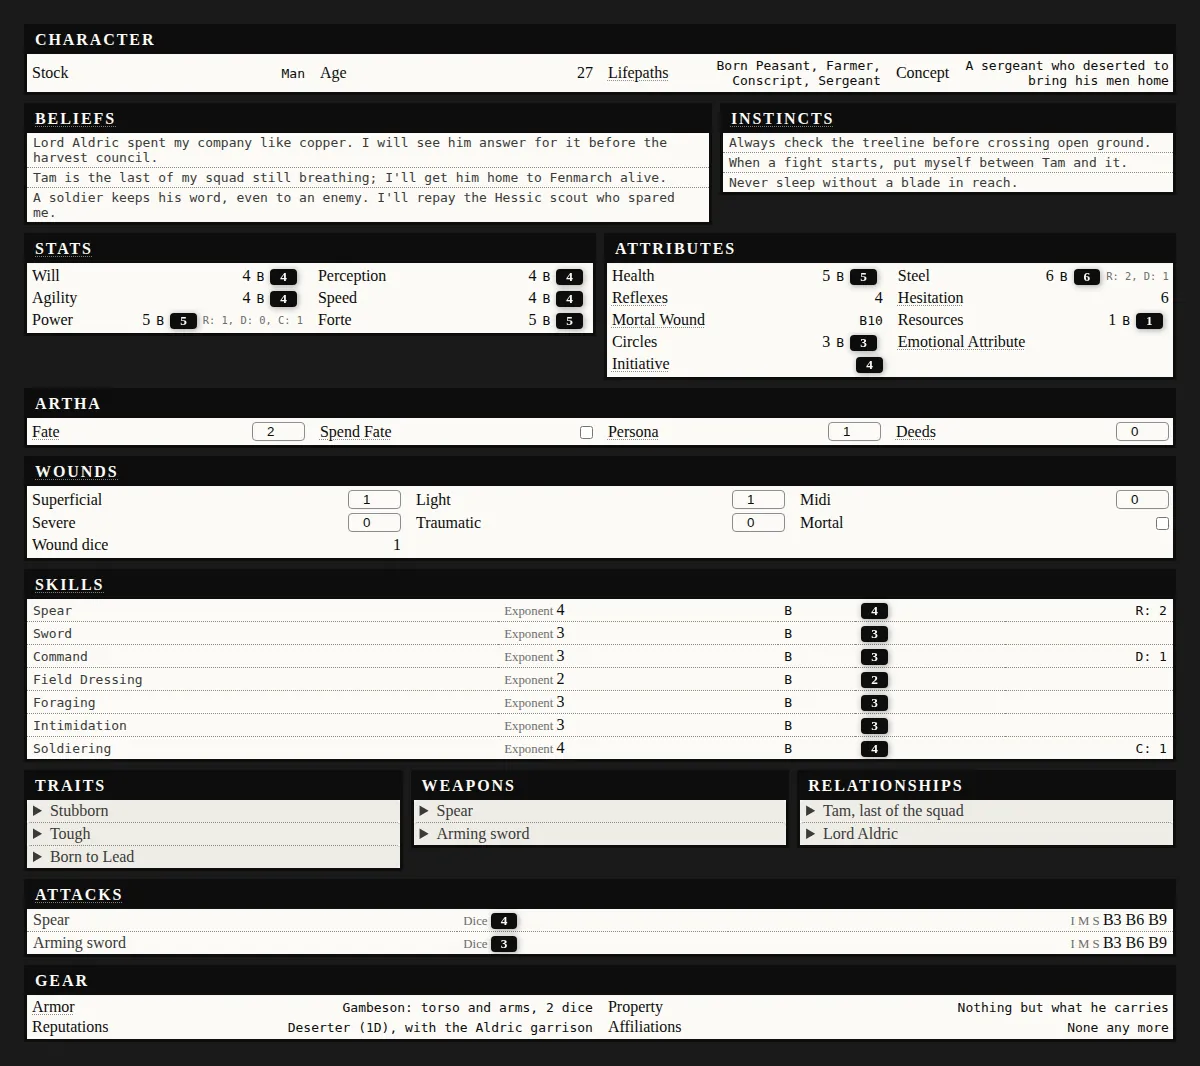
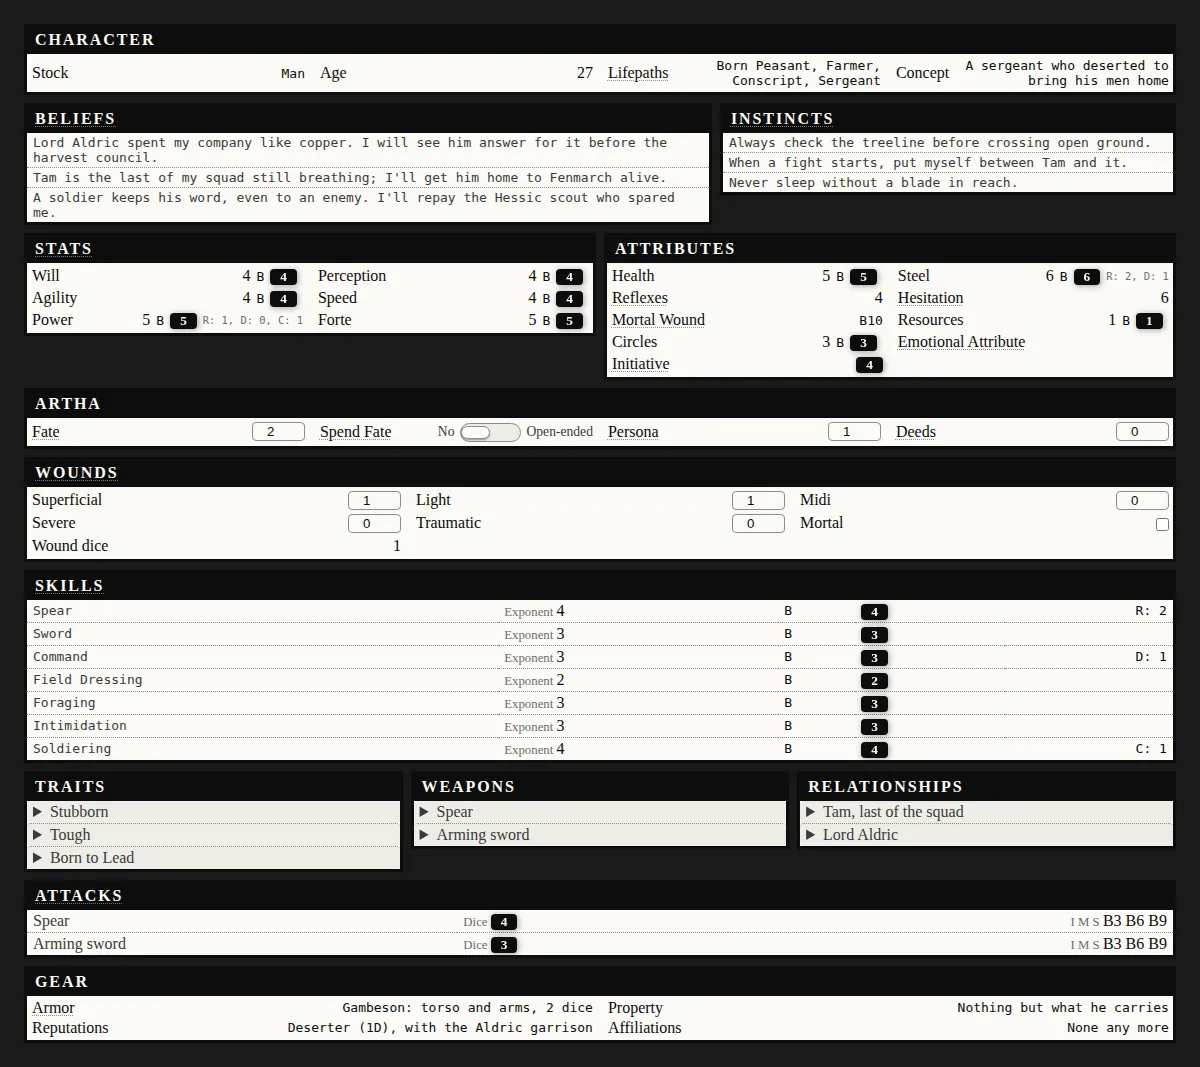
Fix the first review round's findings in the batch 3 systems
Per-roll toggles (Hunter Add Desperation, Mage Spend Willpower, Burning
Wheel Spend Fate) are unsaved selectors held with Shift, so they no
longer stick between rolls. Burning Wheel weapon attacks without the
skill use Beginner's Luck (full Agility, double Ob). Mage wound
penalties apply to Arete. Expanse Income can be rolled again. Mythras
thrown weapons keep the damage modifier. Cairn petty relics take no
slot. Paranoia's Next clone no longer revives the sixth clone. Simpler
BRP ranged check.

diff --git a/systems/hunter/hunter.css b/systems/hunter/hunter.css
@@ -48,8 +48,8 @@
 }
 .entityView .table-attributes > table > tbody > tr,
 .entityView .table-skills > table > tbody > tr { border-bottom: 1px dashed var(--border); }
-.entityView .table-hunt { --block: 40%; clear: left; }
-.entityView .table-trackers { --block: 60%; }
+.entityView .table-hunt { --block: 48%; clear: left; }
+.entityView .table-trackers { --block: 52%; }
 .entityView .table-edges,
 .entityView .table-weapons { --block: 50%; }
 .entityView .table-edges { clear: left; }

diff --git a/tools/cairn_import.py b/tools/cairn_import.py
@@ -127,9 +127,14 @@ def relics():
         bullets = [clean(re.sub(r"^\s*-\s*", "", l)) for l in lines if l.strip().startswith("-")]
         recharge = [b[len("Recharge:"):].strip() for b in bullets if b.startswith("Recharge:")]
         body = [b for b in bullets if not b.startswith("Recharge:")]
+        petty = "petty" in others
+        others = [o for o in others if o != "petty"]
         if others:
             body.insert(0, ", ".join(others) + ".")
-        found.append(entity("Relics", name, "\n\n".join(body), "cairnRelic", {"Stats": {"Charges": charges, "Recharge": " ".join(recharge)}}))
+        stats = {"Charges": charges, "Recharge": " ".join(recharge)}
+        if petty:
+            stats["Petty"] = True
+        found.append(entity("Relics", name, "\n\n".join(body), "cairnRelic", {"Stats": stats}))
     return found
 
 

diff --git a/systems/mage/guide.md b/systems/mage/guide.md
@@ -6,7 +6,7 @@ The Awakened know that reality is consensus: what people believe holds the world
 ## Rolls
 Roll **attribute + ability** d10s against a **difficulty** (usually 6, from 3 easy to 9 very hard). Each die at or above the difficulty is a success; each **1** cancels one success. With no successes and any 1s, the roll is a **botch**. The prompt asks for dice added or taken off and the difficulty.
 - One success is enough; more give better results.
-- **Willpower**: spend a point before the roll for one automatic success that 1s can't cancel (tick Spend Willpower, then lower Willpower).
+- **Willpower**: spend a point before the roll for one automatic success that 1s can't cancel (hold Shift while rolling, then lower Willpower).
 - Untrained: a Talent rolls the attribute alone, a Skill at +1 difficulty, a Knowledge not at all.
 - **Wound penalties** come off the pool: Hurt and Injured -1, Wounded and Mauled -2, Crippled -5.
 
@@ -14,6 +14,7 @@ Roll **attribute + ability** d10s against a **difficulty** (usually 6, from 3 ea
 Roll **Arete**. The effect needs dots in the right **Spheres** (Correspondence, Entropy, Forces, Life, Matter, Mind, Prime, Spirit, Time).
 - **Coincidental** magick (could pass as chance): difficulty = highest Sphere used + 3.
 - **Vulgar** magick (obviously impossible): highest Sphere + 4, and it gains **Paradox**; more with Sleepers watching.
+- **Wound penalties** apply to Arete too.
 - Spending **Quintessence** lowers the difficulty by 1 a point (up to 3). Instruments and time help too.
 - The successes decide how strong, how long and how far the effect goes. A botch on vulgar magick brings a Paradox backlash.
 

diff --git a/systems/hunter/guide.md b/systems/hunter/guide.md
@@ -10,7 +10,7 @@ Roll **attribute + skill** d10s. Each **6 or more** is a success; every **pair o
 
 ## Desperation and Danger
 The cell shares two numbers, kept on each sheet:
-- **Desperation** (1-5): when a roll serves the hunter's **Drive**, tick **Add Desperation** and that many orange dice are added to the pool. They count successes as usual, but if any shows a **1**, the hunter **overreaches**: either **Danger** goes up by 1, or the hunter falls into **Despair**.
+- **Desperation** (1-5): when a roll serves the hunter's **Drive**, hold **Shift** while rolling (or switch **Add Desperation** on) and that many orange dice are added to the pool. They count successes as usual, but if any shows a **1**, the hunter **overreaches**: either **Danger** goes up by 1, or the hunter falls into **Despair**.
 - **Danger** (0-5): how close the quarry is to hitting back. The GM spends it on complications.
 - **Despair**: no Desperation dice and no use of the Drive until the hunter does what their **Redemption** asks.
 

diff --git a/systems/burningwheel/guide.md b/systems/burningwheel/guide.md
@@ -12,7 +12,7 @@ Roll **d6s equal to the exponent** of the stat or skill.
 - **Wounds** are applied for you: each superficial wound adds +1 Ob; Light -1D, Midi -2D, Severe -3D, Traumatic -4D.
 
 ## Artha
-- **Fate**: make a roll open-ended (6s roll again and can succeed). Tick Spend Fate before the roll.
+- **Fate**: make a roll open-ended (6s roll again and can succeed). Hold Shift while rolling (or switch Spend Fate on).
 - **Persona**: +1D a point (up to three), or tap Nature.
 - **Deeds**: double the base dice, or reroll every failure.
 Artha is earned at the end of a session for playing Beliefs, Instincts and Traits, even against the character's interest.
